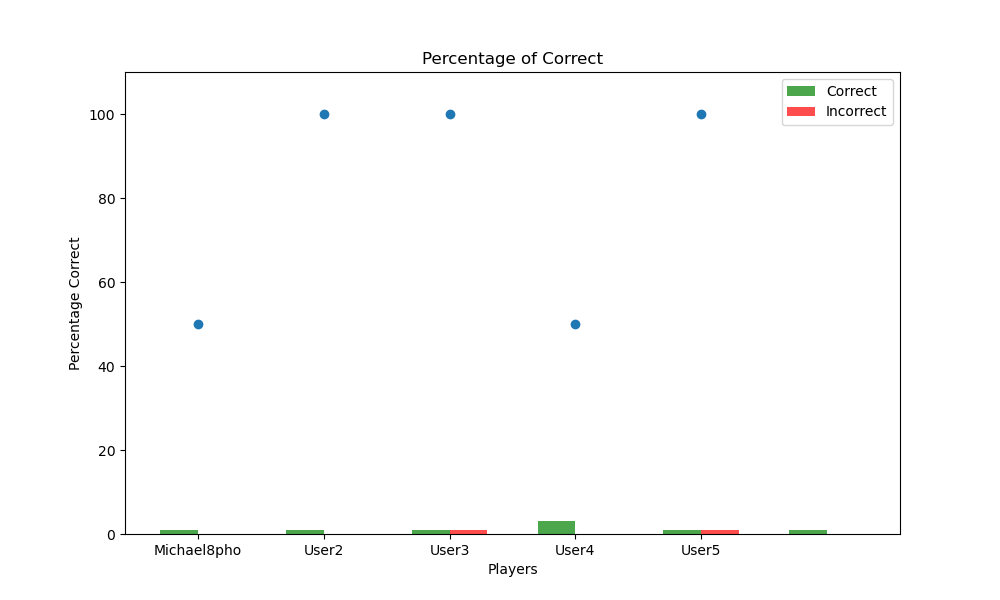
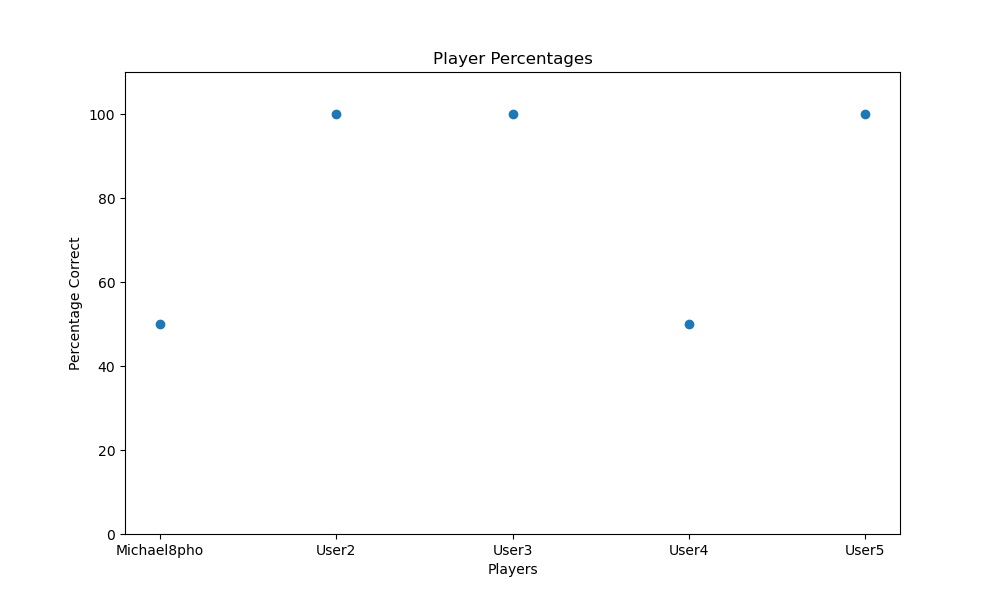
corrected some errors where graphs were not clearing

diff --git a/DataExtraction/GenerateGraphs/generate_graphs.py b/DataExtraction/GenerateGraphs/generate_graphs.py
@@ -22,9 +22,10 @@ def generate_scatter_plot(df):
     plt.xlabel("Players")
     plt.ylabel("Percentage Correct")
     plt.ylim(0, 110)
-    plt.title("Percentage of Correct")
+    plt.title("Player Percentages")
     plt.savefig('WebPage/Graphs/scatter_plot.png')
     plt.savefig('static/scatter_plot.png')
+    plt.clf()
 
 def generate_duration_correct(df):
     # Scatter plot for Time vs. Correctness
@@ -44,6 +45,7 @@ def generate_duration_correct(df):
     # Save the plot as an image
     plt.savefig('WebPage/Graphs/time-taken-vs-correctness-users.png')
     plt.savefig('static/time-taken-vs-correctness-users.png')
+    plt.clf()
 
 def generate_duration_correct_user(df):
     # Get a list of unique users
@@ -72,6 +74,7 @@ def generate_duration_correct_user(df):
 
         plt.savefig('WebPage/Graphs/time-taken-vs-correctness.png')
         plt.savefig('static/time-taken-vs-correctness.png')
+        plt.clf()
 
 def generate_pi_chart(df):
     # 1. Category Distribution
@@ -177,3 +180,4 @@ def correct_vs_category(df):
     # printing in graph png
     plt.savefig("WebPage/Graphs/correct-vs-category.png")
     plt.savefig("static/correct-vs-category.png")
+    plt.clf()
